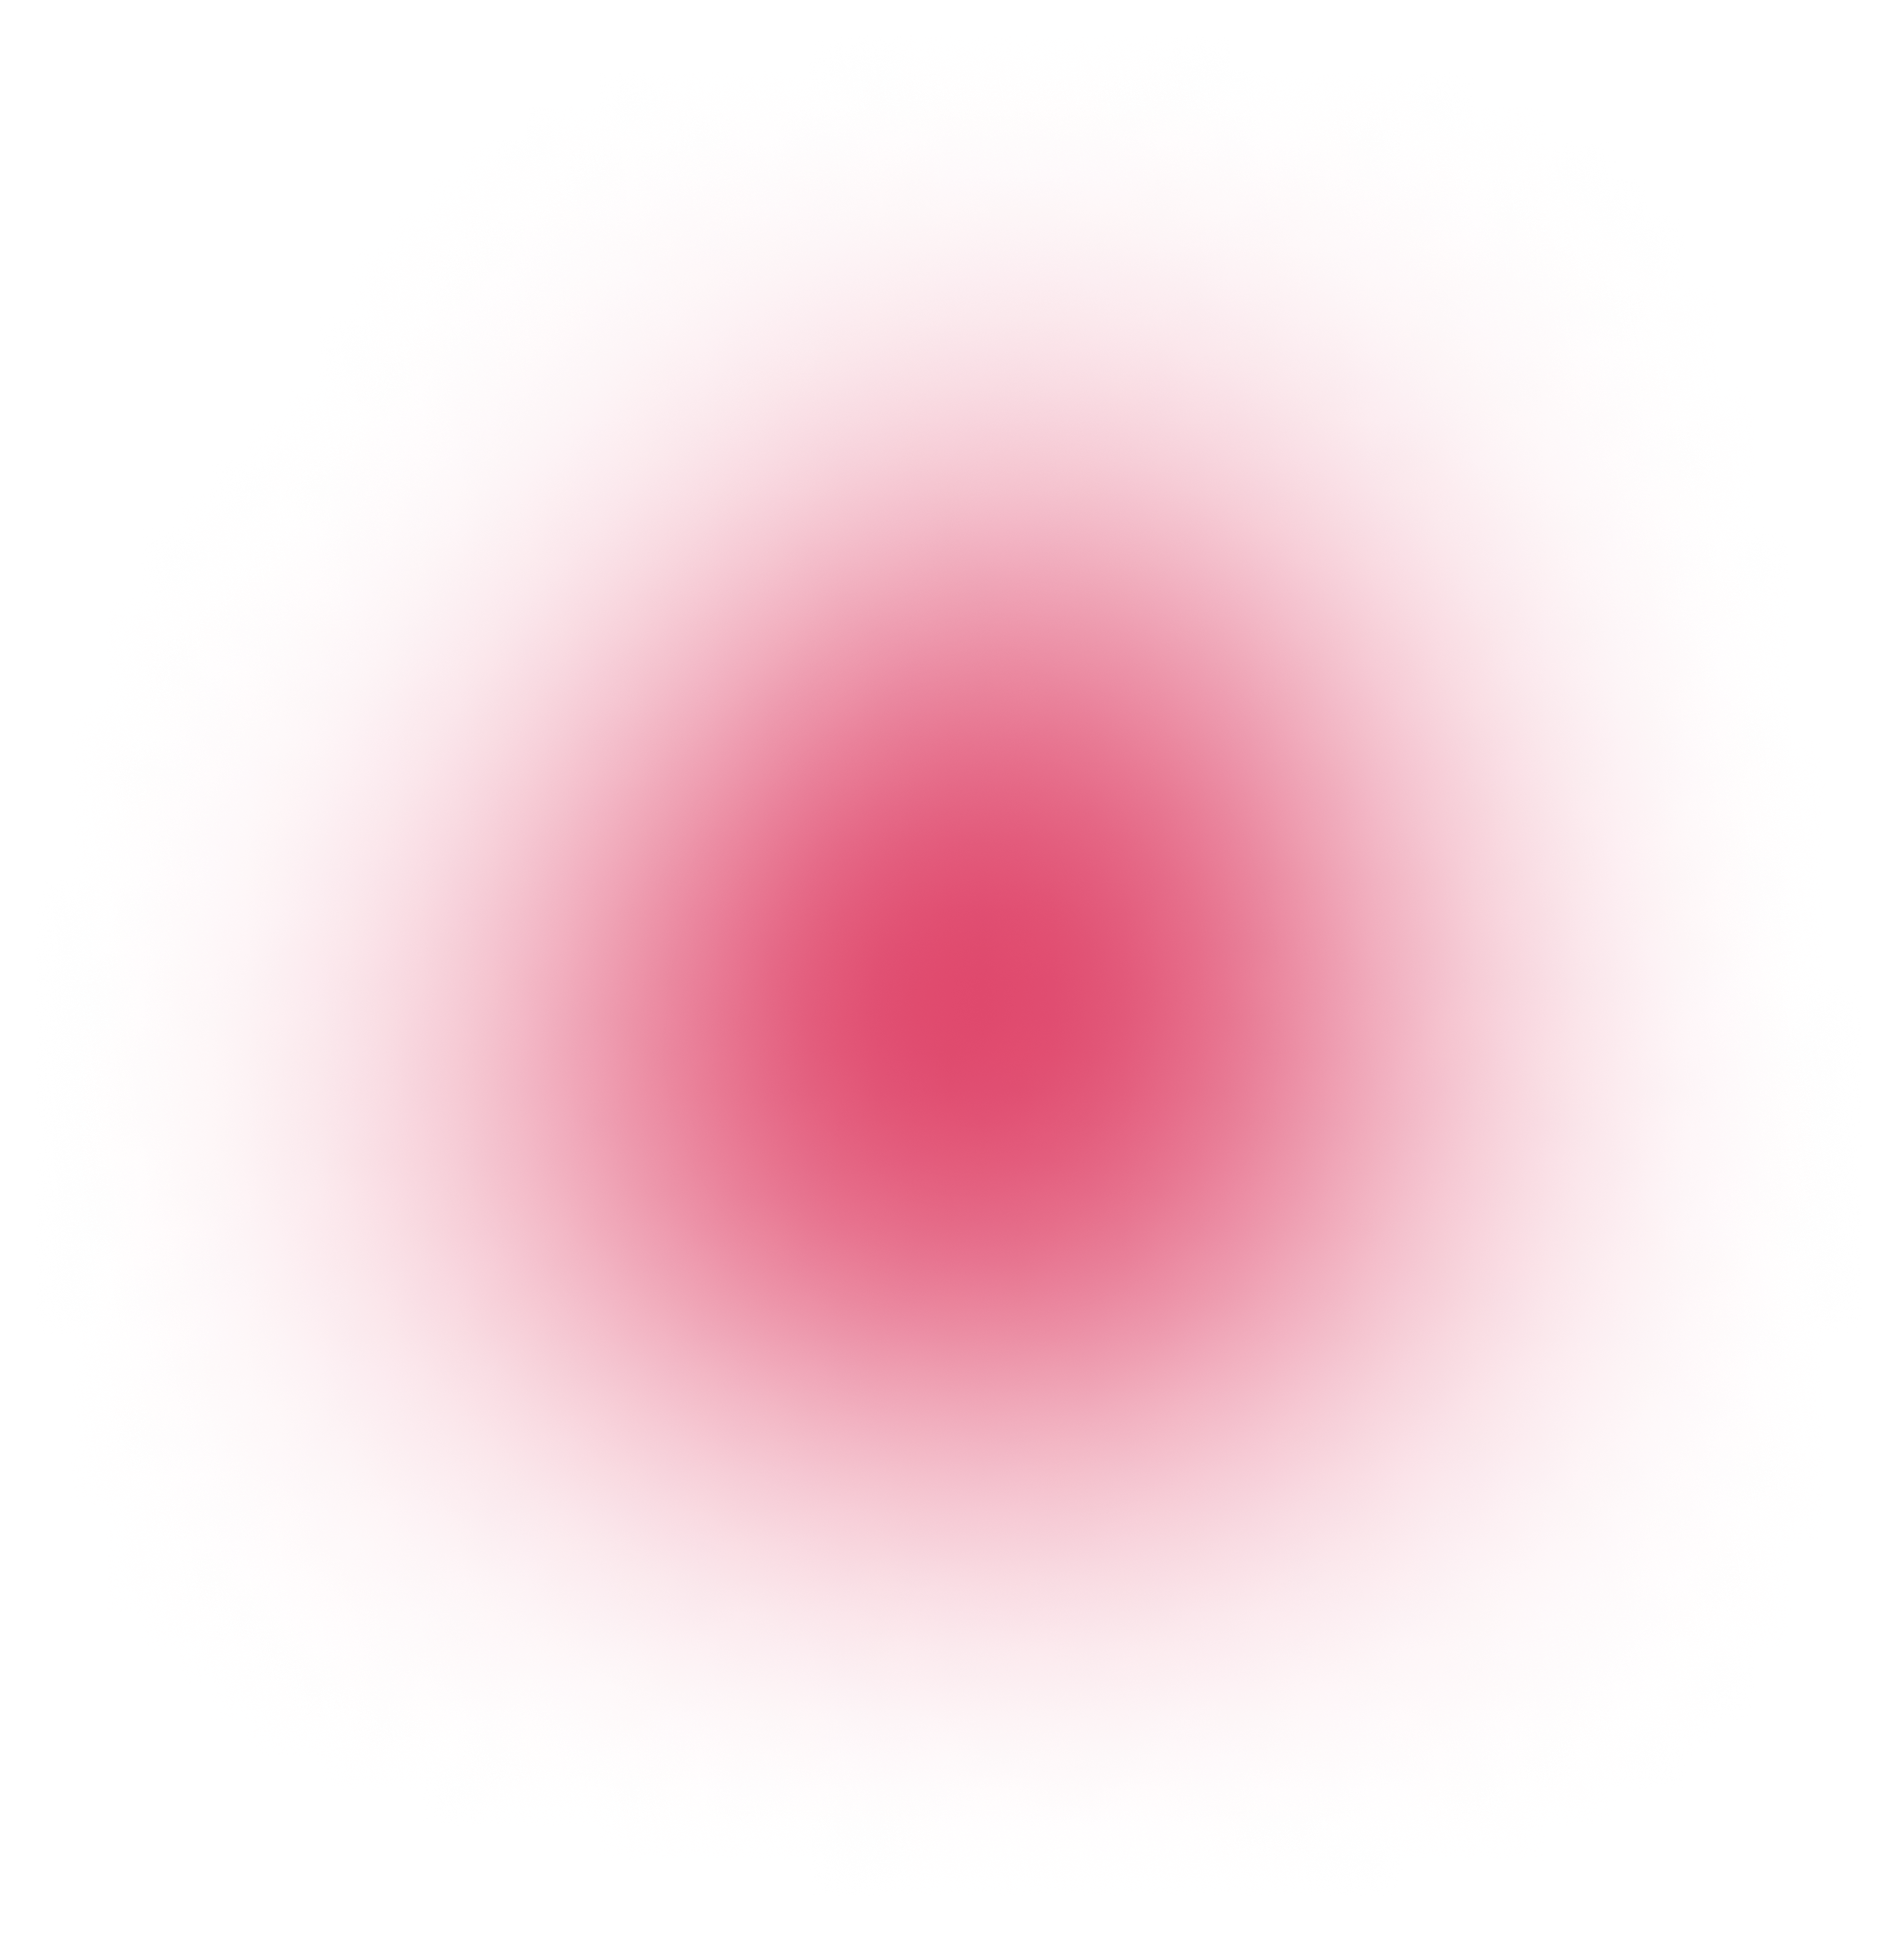
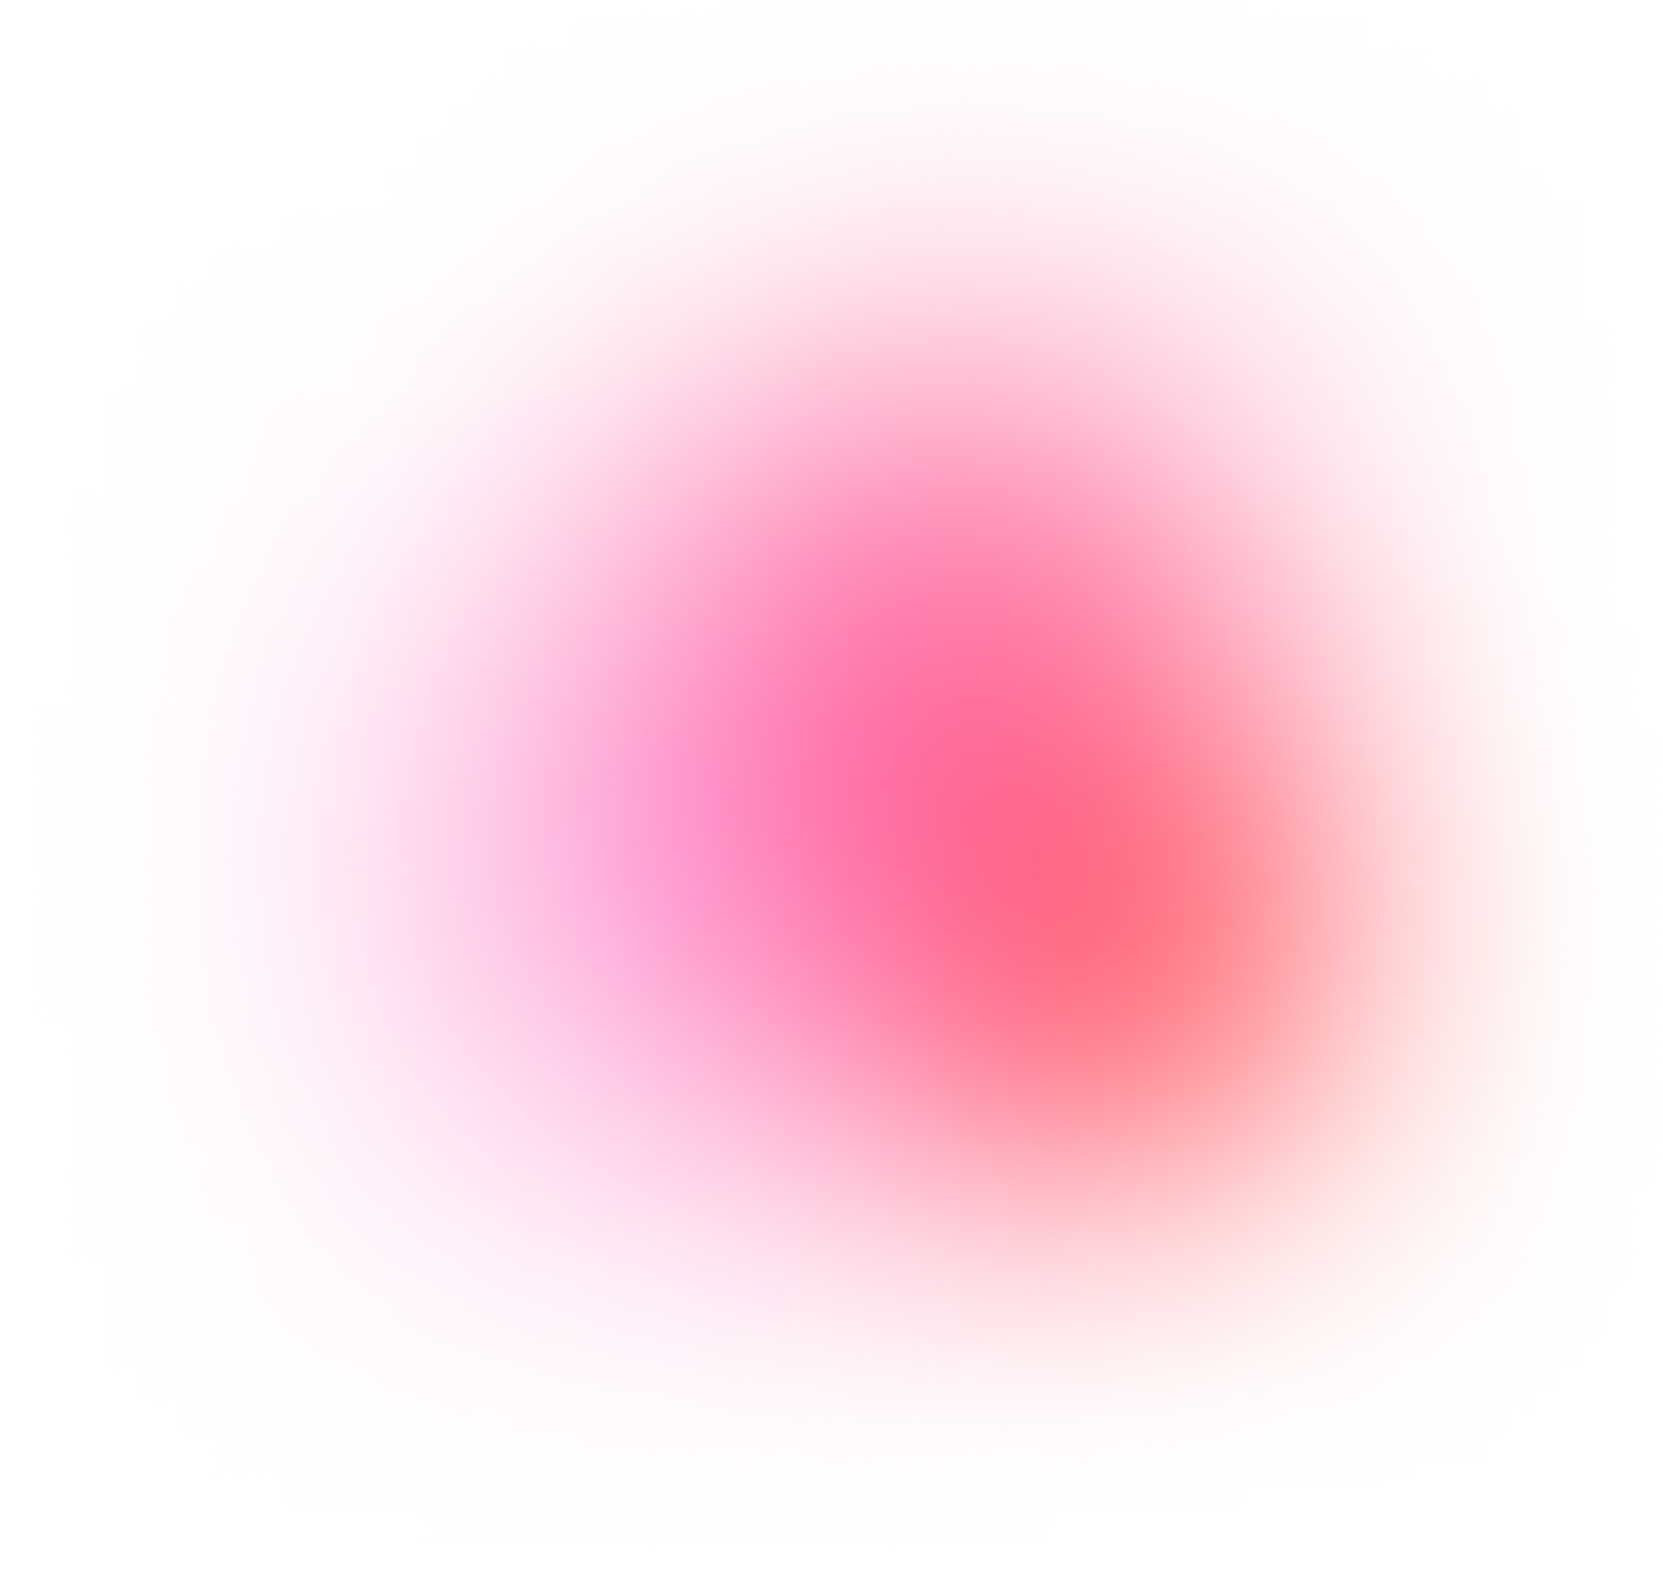
circle changed

Changed region(s): [[0.2182, 0.3069, 0.8418, 0.7978]]

diff --git a/index.html b/index.html
@@ -135,14 +135,12 @@
 
         <main class="main">
             <h4 style="color:#f1406a; font-weight:400;font-family:'Oswald';">DESARROLLADOR WEB</h4>
-            <h1 style="width:600px;line-height:1;color:#f5e4e8;font-weight: 400;font-family: 'Oswald';">ELIAN CHAURAN</h1>
+            <h1 style="display:inline-block;line-height:1;color:#f5e4e8;font-weight: 400;font-family: 'Oswald';">ELIAN CHAURAN</h1>
          
             <img    
                 class="circlebg"
                 src="public/blurCircle.png" 
-                
-                width="650" 
-                height="650"/>
+/>
             <p  style="font-family:'Roboto';margin-top:16px;font-size:25px;font-weight:400;min-width:300px;max-width:600px;color:#8b797f;">Apasionado del desarrollo web. Construyo ideas y las plasmo en la web</p>
         
             <button class="btn" style="padding:0;margin-top:24px;align-self:start">
@@ -696,12 +694,6 @@
         stroke:black;
         translate: 0px -3px;
     }
-    .card:hover .circlebg{
-        border-radius: 0;
-        animation:none;
-        translate:-50% -50%;
-        opacity: 1;
-    }
 
     body{
         display: flex;
@@ -730,7 +722,13 @@
         width: 100%;
     }
     .circlebg{
-        position: absolute;right:0;top:50%;translate:0% -120%;z-index: -10;
+        position: absolute;
+        right:0;
+        width:650px;
+        height:650px;
+        top:50%;
+        translate:-10% -135%;
+        z-index: -10;
     }
 
     *{
